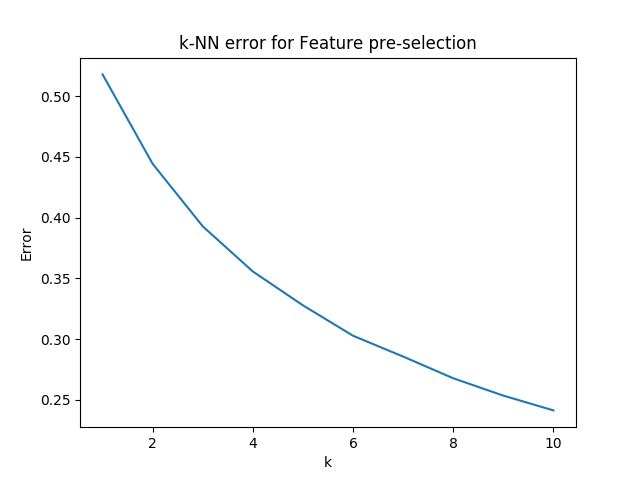
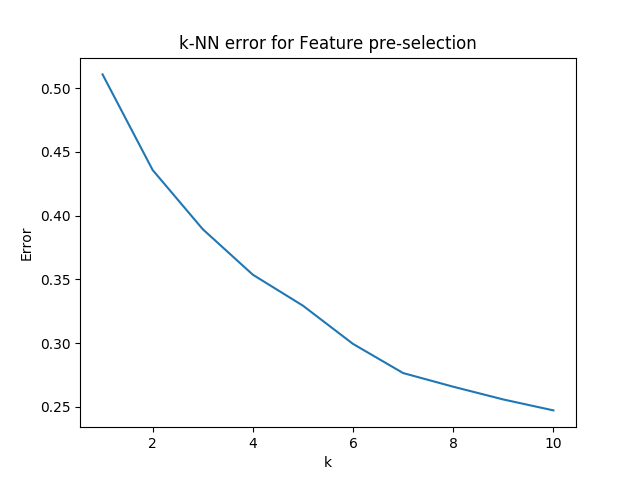
[CW2] Improved by using ball tree alg.

diff --git a/Coursework 2/kNN_improved_feature_preselection.py b/Coursework 2/kNN_improved_feature_preselection.py
@@ -103,7 +103,7 @@ def analyse_KNN_feature_preselection(k=10):
         selected_gallery_features, selected_gallery_labels = select_features(gallery_camIds, query_camId, gallery_labels, query_label, gallery_features)
 
 
-        clf = neighbors.KNeighborsClassifier(k,algorithm="brute", metric="euclidean")
+        clf = neighbors.KNeighborsClassifier(k, metric="euclidean")
         clf.fit(selected_gallery_features, selected_gallery_labels)
         #clf.fit(selected_gallery_features)
 
